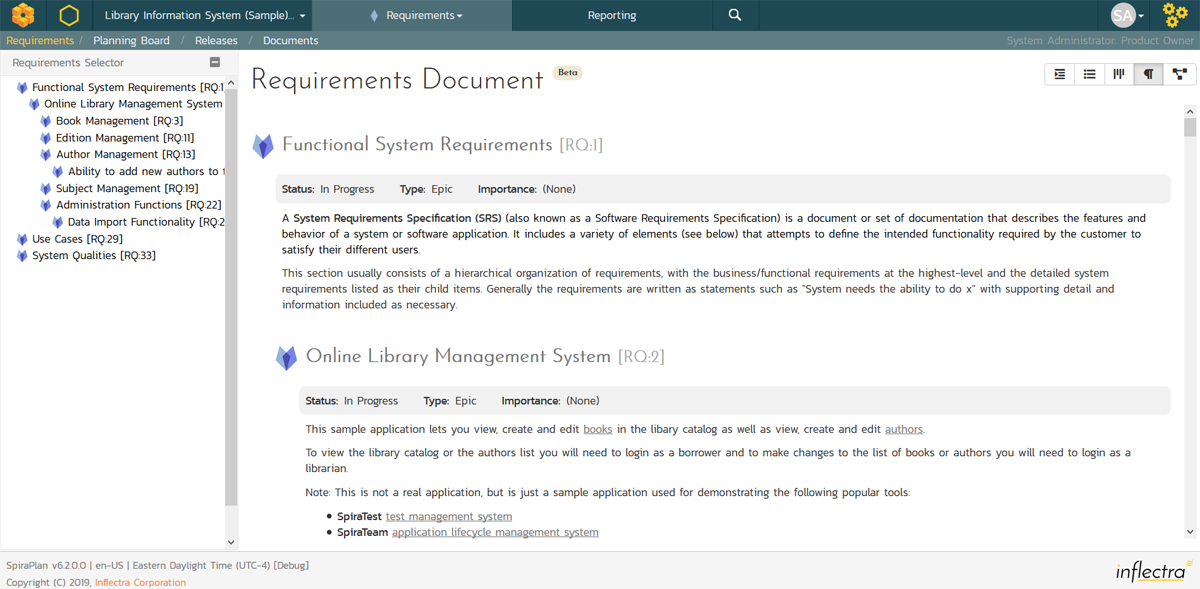
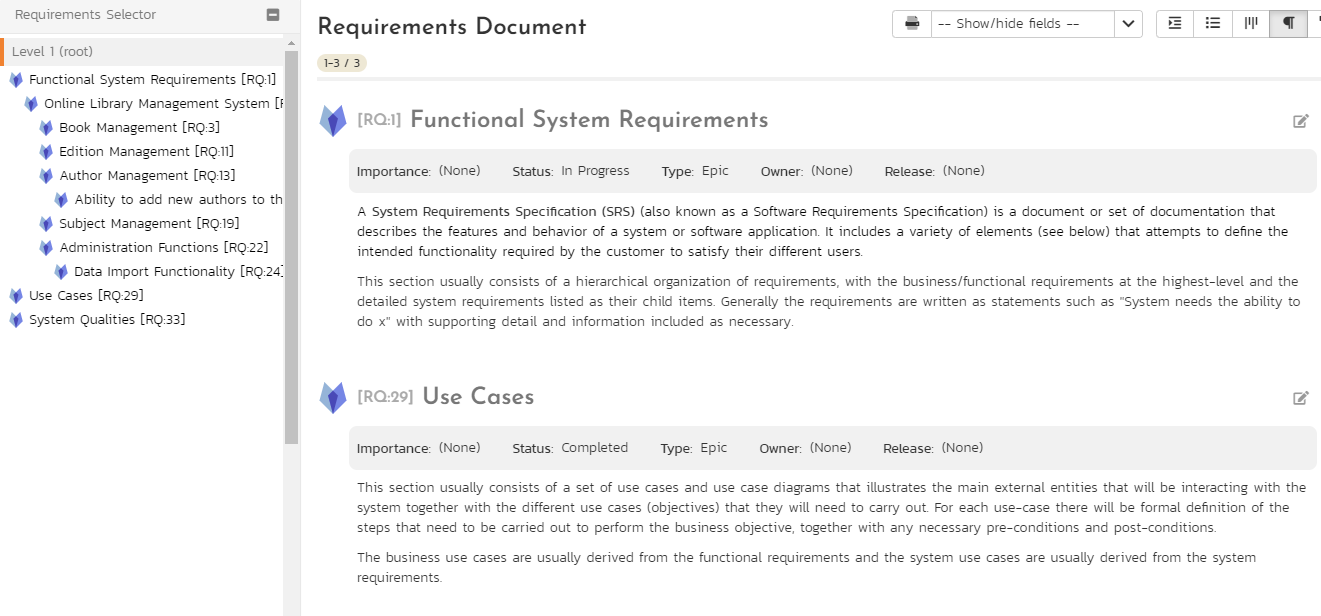
updates documentation for baselines, reports, requirement documents

diff --git a/docs/About/release-notes-v6.md b/docs/About/release-notes-v6.md
@@ -3,26 +3,26 @@
 ## Version 6.9 (May 2021)
 
 !!! info "Summary"
-    - **Improved requirement document view** (SpiraTeam and SpiraPlan): Users can now customize which fields to display; edit requirement names, descriptions, and other rich text fields; and display the requirement hierarchy position as an outline code (e.g. 1.2.11). Navigation and pagination have also been improved.
+    - **Improved [requirement document view](../../Spira-User-Manual/Requirements-Management/#requirements-document-view)** (SpiraTeam and SpiraPlan): Users can now customize which fields to display; edit requirement names, descriptions, and other rich text fields; and display the requirement hierarchy position as an outline code (e.g. 1.2.11). Navigation and pagination have also been improved.
     
-    - **Baselining enhancements** (SpiraTeam and SpiraPlan): There are now new views and existing views improved to make it easier to see what changed in a baseline.
+    - **Baselining enhancements** (SpiraTeam and SpiraPlan): There are now [new views](../../Spira-Administration-Guide/Product-General-Settings/#baseline-artifact-details) and existing views improved to make it easier to see what changed in a baseline.
+
+    - **Access custom report data from external tools** (SpiraPlan): First, we've added [lots more reporting views](../../Reporting/Custom-Report-Tables) to help build out even more queries (available in all editions of Spira). Next, SpiraPlan customers can use 3rd party tools like spreadsheets and database reporting packages to query and report against all custom report tables in the application via the ODATA standard (read our [in-depth tutorial](../../Reporting/OData-Tutorial)). This takes custom reports to a whole new level of integration and ease of use.
 
     - **Customize custom fields**: Custom properties have been turned up to 100 (minus 1). You can now have 99 custom properties for each artifact in a template. Order your custom properties how you like, and add a useful tooltip description for users to read on details pages. 
-
-    - **Access custom report data from external tools** (SpiraPlan): First, we've added lots more reporting views to help build out even more queries. Next, SpiraPlan customers can use 3rd party tools like spreadsheets and database reporting packages to query and report against all custom report tables in the application via the ODATA standard. This takes custom reports to a whole new level of integration and ease of use.
 
     **NOTE**: Internet Explorer is no longer supported by SpiraTest, SpiraTeam, or SpiraPlan. You should use a modern and secure browser instead.
 
 ??? success "New Features"
 
-    * **Requirements document view**
+    * **[Requirements document view](../../Spira-User-Manual/Requirements-Management/#requirements-document-view)**
 
-        - Users with bulk edit permission can edit the name and rich text fields inline on the requirements documents list view [RQ:2953]
-        - Users can show or hide key standard fields on the requirements documents view [RQ:2954]
-        - The requirements document view can optionally show the requirement's position in the hierarchy as an outline number code (in a form like 1.1.2.4) [RQ:2958]
-        - The requirements document view has improved navigation where click an epic in the sidebar loads only that epic and its children, and the system remembers your selection [RQ:3065]
+        - Users with bulk edit permission can [edit the name and rich text fields inline](../../Spira-User-Manual/Requirements-Management/#editing-the-requirements-documents) on the requirements documents list view [RQ:2953]
+        - Users can [show or hide key standard fields](../../Spira-User-Manual/Requirements-Management/#requirements-document-options) on the requirements documents view [RQ:2954]
+        - Users can [show or hide rich text custom properties](../../Spira-User-Manual/Requirements-Management/#requirements-document-options) on the requirements documents view [RQ:3047]
+        - The requirements document view can optionally show the requirement's position in the hierarchy as an [outline number code](../../Spira-User-Manual/Requirements-Management/#requirements-document-options) (in a form like 1.1.2.4) [RQ:2958]
+        - The requirements document view has improved [navigation](../../Spira-User-Manual/Requirements-Management/#requirements-document-navigation) where click an epic in the sidebar loads only that epic and its children, and the system remembers your selection [RQ:3065]
         - Users can quickly print the current requirement documents list with the addition of a dedicated on-page print button [RQ:3066]
-        - Users can show or hide rich text custom properties on the requirements documents view [RQ:3047]
 
     * **Custom Properties**
 
@@ -32,14 +32,14 @@
 
     * **History and Baselining**
 
-        - Clicking on Artifact Name on the baseline details page opens the baseline artifact details page to view all changes made in that baseline to that artifact [RQ:2989]
-        - Show enhanced history tracking on the product admin history pages and baseline details page (including test coverage and step position changes) [RQ:3040]
+        - Clicking on Artifact Name on the [baseline details page](../../Spira-Administration-Guide/Product-General-Settings/#baseline-details) opens the [baseline artifact details page](../../Spira-Administration-Guide/Product-General-Settings/#baseline-artifact-details) to view all changes made in that baseline to that artifact [RQ:2989]
+        - Show enhanced history tracking on the [product admin history](../../Spira-Administration-Guide/Product-General-Settings/#product-history-changes) pages and [baseline details](../../Spira-Administration-Guide/Product-General-Settings/#baseline-details) page (including test coverage and step position changes) [RQ:3040]
         - Enhance history to track document versioning (history records are created for adding, deleting, and setting a version active) [RQ:3064]
 
     * ** Report Customization**
 
-        - Allow access to custom report views via API using the ODATA standard (SpiraPlan only) [RQ:3037]
-        - Users can have a dedicated Report Admin role, which lets them view, edit, and manage custom reports (in the app, via ODATA, and via the API) [RQ:2984]
+        - Allow access to custom report views via API using the ODATA standard (SpiraPlan only) - read our [in-depth tutorial](../../Reporting/OData-Tutorial) [RQ:3037]
+        - Users can have a dedicated [Report Admin role]()../../Spira-Administration-Guide/System-Users/#add-a-new-user), which lets them view, edit, and manage custom reports (in the app, via ODATA, and via the API) [RQ:2984]
 
     * **Other**
 
@@ -61,8 +61,8 @@
     * **Bug fixes**
 
         - Add jira.inflectra.com as an automatically trusted CORS domain to allow easier connection to Inflectra's Jira marketplace addon [IN:5520]
-        - Ensure full database schema parity between a clean install and an upgraded cloud installation [IN:6181]
-        - Ensure full database schema parity between a clean install and an upgraded on-premise installation [IN:6182]
+        - Ensure full database metadata parity between a clean install and an upgraded cloud installation [IN:6181]
+        - Ensure full database metadata parity between a clean install and an upgraded on-premise installation [IN:6182]
         - Enable spell checking on the actual results field during test execution [IN:6192]
         - Fix opening a details page to a specified tab not working for some pages and tabs [IN:6202]
         - Fix creating tasks during test execution not triggering notifications [IN:6204]
@@ -79,7 +79,7 @@
         - Convert the Saved Reports Widget's hyperlinks to make them shareable [IN:6106]
         - Improve the performance of associations tabs by adding a database index to speed up the most common retrieval [IN:6173]
         - Navigating tabs on details pages updates the URL with the tab name to make it easier to share your current view with others [IN:6194]
-        - Add additional views for custom reporting to give more flexibility in what data can be queried [IN:6307]
+        - Add [additional views for custom reporting](../../Reporting/Custom-Report-Tables) to give more flexibility in what data can be queried [IN:6307]
 
     * **Findings from security review**
 

diff --git a/docs/Spira-User-Manual/Requirements-Management.md b/docs/Spira-User-Manual/Requirements-Management.md
@@ -257,25 +257,69 @@ This view is similar to the existing [Planning Board](Planning-Board.md) but onl
 
 
 ## Requirements Document View
+This view shows the hierarchical organization of the requirements in a product. Instead of being displayed in a grid form, they are displayed in a document format that is designed to be readable from top to bottom, like a traditional requirements document. You can edit the name and description fields inline to update your document as you read through it, as well as change what fields are visible, to tailor the document to your needs.
 
-This view also offers a hierarchical organization of the first 5000 requirements in a product. Instead of being displayed in a grid form, they are displayed in a document format that is designed to be readable from top to bottom, like a traditional requirements document. The new view has a sidebar that lets you quickly jump to a section in the requirements document as well as simply scroll through all of the items.
+![main requirement documents view](img/requirements-documents-view.png)
 
-The document is paginated, showing up to 250 requirements on each page.
+### Requirements Document Navigation
+The sidebar shows all the epics in the product[^max-epics], in their hierarchy. Clicking on an epic will load that epic with all its children[^max-epics] into the document view (and save this view for the next time you are on this page for this product). There is a special link at the top of the list of epics called "Level 1 (root)" and clicking on this will load all requirements at the root level (level 1)[^max-epics]. This is the default view you will see when you first visit the documents view. Looking at "Level 1 (root)" is particularly useful if you need to view or edit standalone requirements (requirements that do not have a parent or any children). 
 
-For each requirement, the following information is displayed:
+When you click an epic (or "Level 1 (root)") from the sidebar, the documents view will show a page of the first 50 requirements. If there are more than 50 requirements you can quickly change pages by using the pagination options at the top right.
 
-- icon
-- name
+### Requirements Document Options
+For each requirement, the following fields are always displayed at the top of the requirement:
+
+- Icon
+- Name
 - ID
-- status
-- type
-- importance
-- owner
-- description
-- [use case diagram](#use-case-diagram) (if the requirement has steps)
 
-![](img/requirements-documents-view.png)
+The following fields are displayed by default (but can be hidden) in a header bar, below the requirement name:
 
+- Status
+- Type
+- Importance
+- Owner
+
+The following fields are always displayed, and below the header bar:
+
+- Description
+- [Use case diagram](#use-case-diagram) (if the requirement has steps)
+
+Additionally you can choose to show the following fields in the header bar:
+
+- Author
+- Component
+- Creation date
+- Estimate (points)
+- Last updated date
+- Outline numbers (this is a special field that shows each requirement's position in the hierarchy as an outline. The first requirement has the number 1, the second 2, the first child of the second 2.1, its child 2.1.1 and so on)
+- Release
+- Task progress
+- Test coverage
+- Any requirement rich text custom property (shown below the requirement description - not in the header bar)
+
+To show or hide any of the optional fields, click the "Show/Hide fields" dropdown at the top of the screen and choose your action. When you change which fields are shown, the data will reload to reflect that choice (if you have unsaved changes you will be prompted to discard them or save your changes).
+
+Next to the "Show/Hide fields" dropdown is a print button. Clicking this will allow you to print all the requirements in the current page. If you are on page 2 of 3 in the documents view, you will print all of page 2's requirements only.
+
+### Editing the requirements documents
+To edit the requirements on the documents view your user must have Bulk Edit permissions for requirements in that product. If you have this permission, you will see an edit icon to the far right of each requirement name. Click this to edit that requirement. You can edit the following fields:
+
+- Requirement name
+- Requirement description
+- Any visible rich text custom properties
+
+In the screenshot below we are editing RQ:1. You can see this because of the requirement name is highlighted, and there are two icons on the far right (save and cancel), instead of the edit icon. RQ:2 is **not** being edited: we can see the edit icon on the far left. Look at the very top of the documents view and you see in the screenshot a helpful message showing "Editing 1 item(s), with 0 unsaved change(s)."
+
+![editing a single requirement document](img/requirements-documents-editing1.png)
+
+In this next screenshot, we are editing RQ:1 still, but also now RQ:2. We are currently making changes to RQ:1 (its save icon is now bigger and orange telling us it can be saved). The header message clearly tells us that we have unsaved changes on this page. This is a helpful way of tracking requirements you need to save, because if you are editing several at a time, not all will be on screen at once.
+
+![editing multiple requirement document requirements](img/requirements-documents-editing2.png)
+
+To save your changes, click the save icon. To discard your changes, click the X icon / cancel. If there was a problem saving the requirement you will see an error message explaining the issue.
+
+[^max-epics]: limited to the first 5000 requirements
 
 ## Requirements Mindmap
 

diff --git a/docs/Spira-Administration-Guide/Product-General-Settings.md b/docs/Spira-Administration-Guide/Product-General-Settings.md
@@ -2,12 +2,24 @@
 
 ## Product History Changes
 
-This page displays a list, by default in chronological order, of changes made to items within the selected product.
+This page displays a list of changes made to items within the selected product. By default, items are shown in chronological order - with the most recent at the top.
 
-At this time, only artifact changes made to Requirements, Tasks, Incidents, Test Cases, Test Steps, Test Sets, Releases, and Automation Hosts are recorded. If baselining is enabled for this product, changes to assocations, test coverage, and positions of test steps, use case steps, and mitigations are recorded. Certain changes to these artifacts are not recorded, such as location changes (indenting, outdenting), and comment additions.
+The following artifact changes are recorded:
+
+- Requirements
+- Releases
+- Documents (including tracking when versions are added, removed, or the default version changed) 
+- Tasks
+- Incidents
+- Test Cases
+- Test Steps
+- Test Sets
+- Automation Hosts
+
+If baselining is enabled for this product, changes to assocations, test coverage, and positions of test steps, use case steps, and mitigations are recorded. Certain changes to artifacts are not recorded, such as location changes (indenting, outdenting) and comment additions.
 
 Additionally, certain product administration changes are recorded and displayed. These include turning baselining on and off for a product, all testing settings, and some planning options (for example Work In Progress Limits).
-
+ 
 ![](img/Product_General_Settings_99.png)
 
 There are a handful of change types recorded and displayed here:
@@ -194,9 +206,32 @@ This table of artifacts only shows artifacts that changed in the baseline (betwe
 
 This table shows the following information:
 
-- Name (this links to the history details page for the last change to happen to this artifact in this baseline)
+- Name (this links to the baseline artifact details page for this artifact in this baseline)
 - Artifact Type (e.g. Requirement or Incident)
 - Artifact ID (this links to the artifact details page for that artifact)
 - User name (only one user is shown, even if multiple people have changed the specific artifact)
 - Last modified date (hover to see a tooltip of the date and time)
 - Change Type (this lists all of the types of change that the artifact went through during this baseline. Each type is only listed once, so if an artifact was added, then modified 10 times, it will show "Modified, Added")
+
+## Baseline Artifact Details
+This page displays detailed information about the changes made to a specific artifact for a specific baseline. This is a great way to see what happened to an artifact in the baseline.
+
+![product baseline artifact details page](img/product_baseline_artifact_details.png)
+
+Information about the artifact at this baseline is divided into 3 sections:
+
+1. The top of the page shows the artifact name (which links to the artifact details page for that artifact) and the baseline name
+3. Properties about the baseline (release and change ID)
+4. A table of all changes made to the artifacts in this baseline
+
+The table of changes is very similar to what you see on the history tab when looking at an artifact. The key difference is that here only a subset of the history is displayed: only those changes that fall within the baseline. All other changes to the artifact are not shown.
+
+This table shows the following columns. You can apply a filter using any of the fields except for Change ID (because this is already filtered to show the key range for the baseline).
+
+- Change ID
+- Change Date
+- Field Name
+- Old Value
+- New Value
+- Changed By
+- Change Type

diff --git a/docs/Spira-Administration-Guide/System-Users.md b/docs/Spira-Administration-Guide/System-Users.md
@@ -31,8 +31,9 @@ To add a new user to the system, click the "Add" button at the bottom of the use
 On this screen, you can:
 
 - enter information about the user, such as their name, email address, and department
-- make the user a portfolio viewer (SpiraPlan only). This controls who can access both the homepages of all portfolios and the enterprise homepage
 - make the user a system administrator
+- make the user a report administrator (this allows the user to administer custom reports and graphs. The can create, edit, and delete reports and graphs, and can also access custom report data in 3rd party tools via OData)
+- make the user a portfolio viewer (SpiraPlan only). This controls who can access both the homepages of all portfolios and the enterprise homepage
 - create their password, password reset question and answer. 
 - if you want the user to be able to subscribe to items in the system as RSS feeds, you can check the "Enable RSS Feeds" checkbox (this will display a GUID token in the text-box)
 
@@ -46,7 +47,7 @@ In a similar way, to edit the details of an existing user, click the "Edit" hype
 
 ![](img/System_Users_46.png)
 
-On this screen you can edit the first name, middle initial, last name, username, email address, portfolio viewer status (SpiraPlan only - this setting also controls the enterprise homepage access), system administration status, and active status. You can also change the user's password (if the user is managed by SpiraPlan).
+On this screen you can edit the first name, middle initial, last name, username, email address, portfolio viewer status (SpiraPlan only - this setting also controls the enterprise homepage access), system administration status, report administrator status, and active status. You can also change the user's password (if the user is managed by SpiraPlan).
 
 If your Spira accounts are managed by an external LDAP directory server, you can edit a user's LDAP information on this page. In LDAP-Managed mode you enter the fully Distinguished Name (DN) for that user in your corporate LDAP server and provide no password. SpiraPlan® will then query your corporate LDAP server for the password information, reducing the number of passwords that a user needs to remember. Please see the sections on [Importing LDAP Users](#importing-ldap-users) and [LDAP Configuration](../System/#ldap-configuration) for more details.
 
